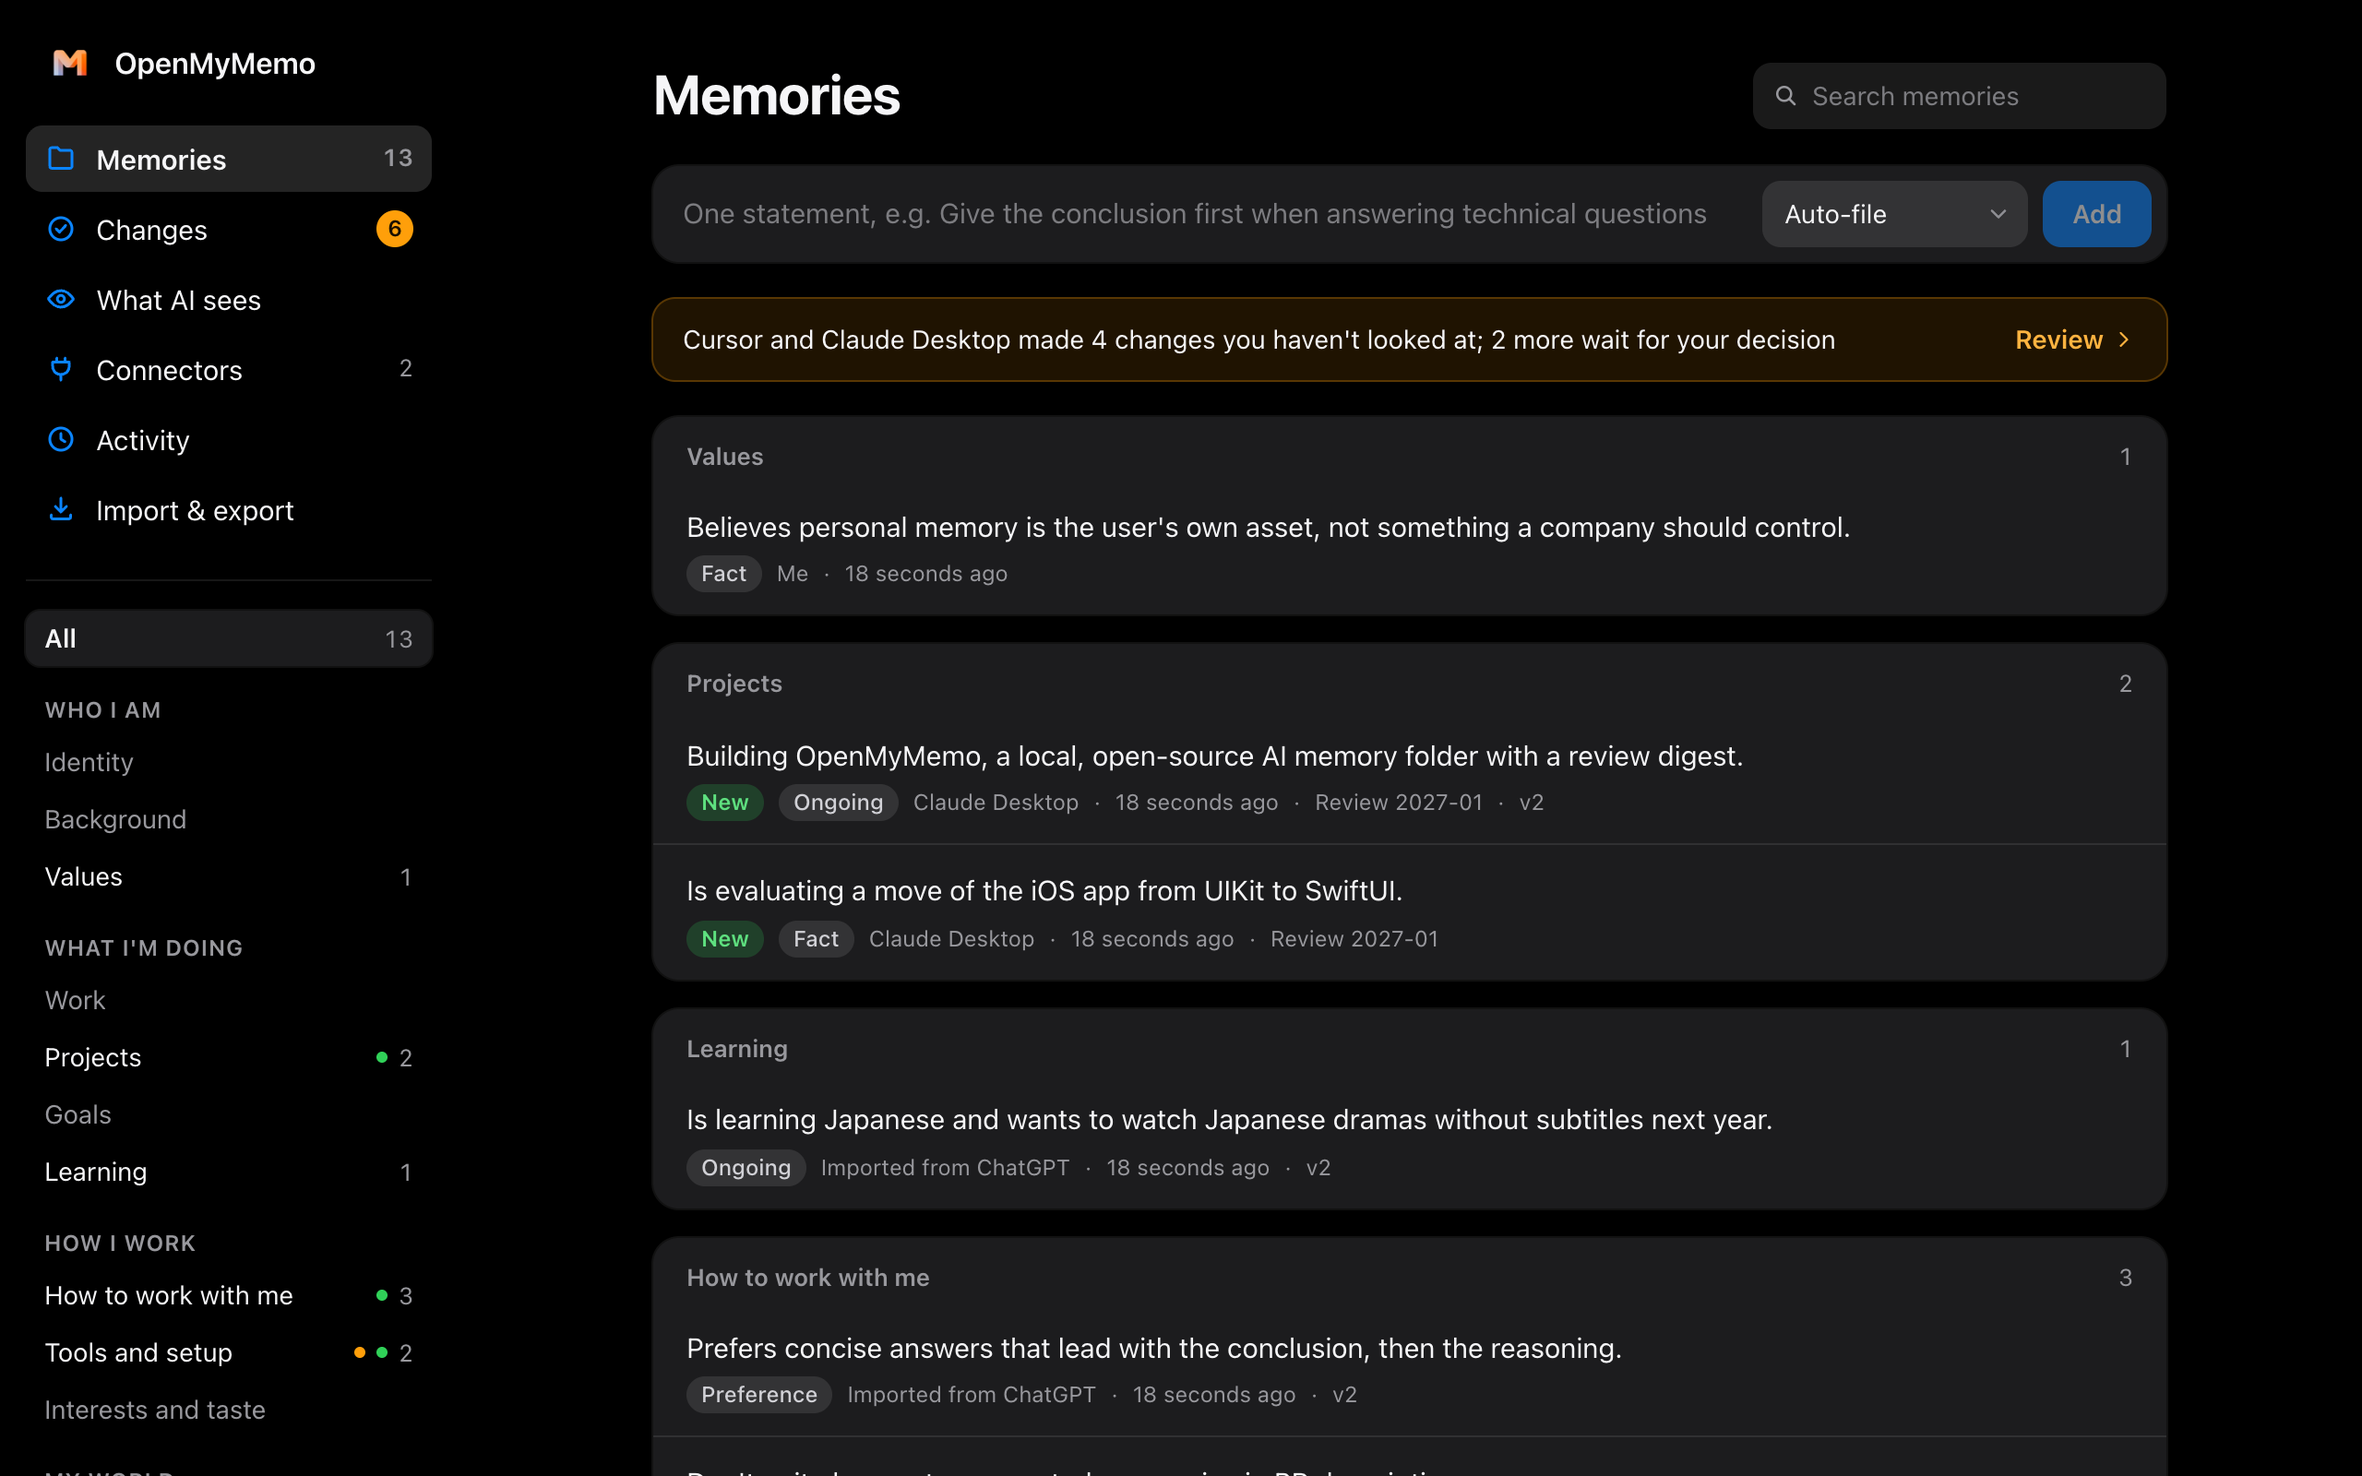
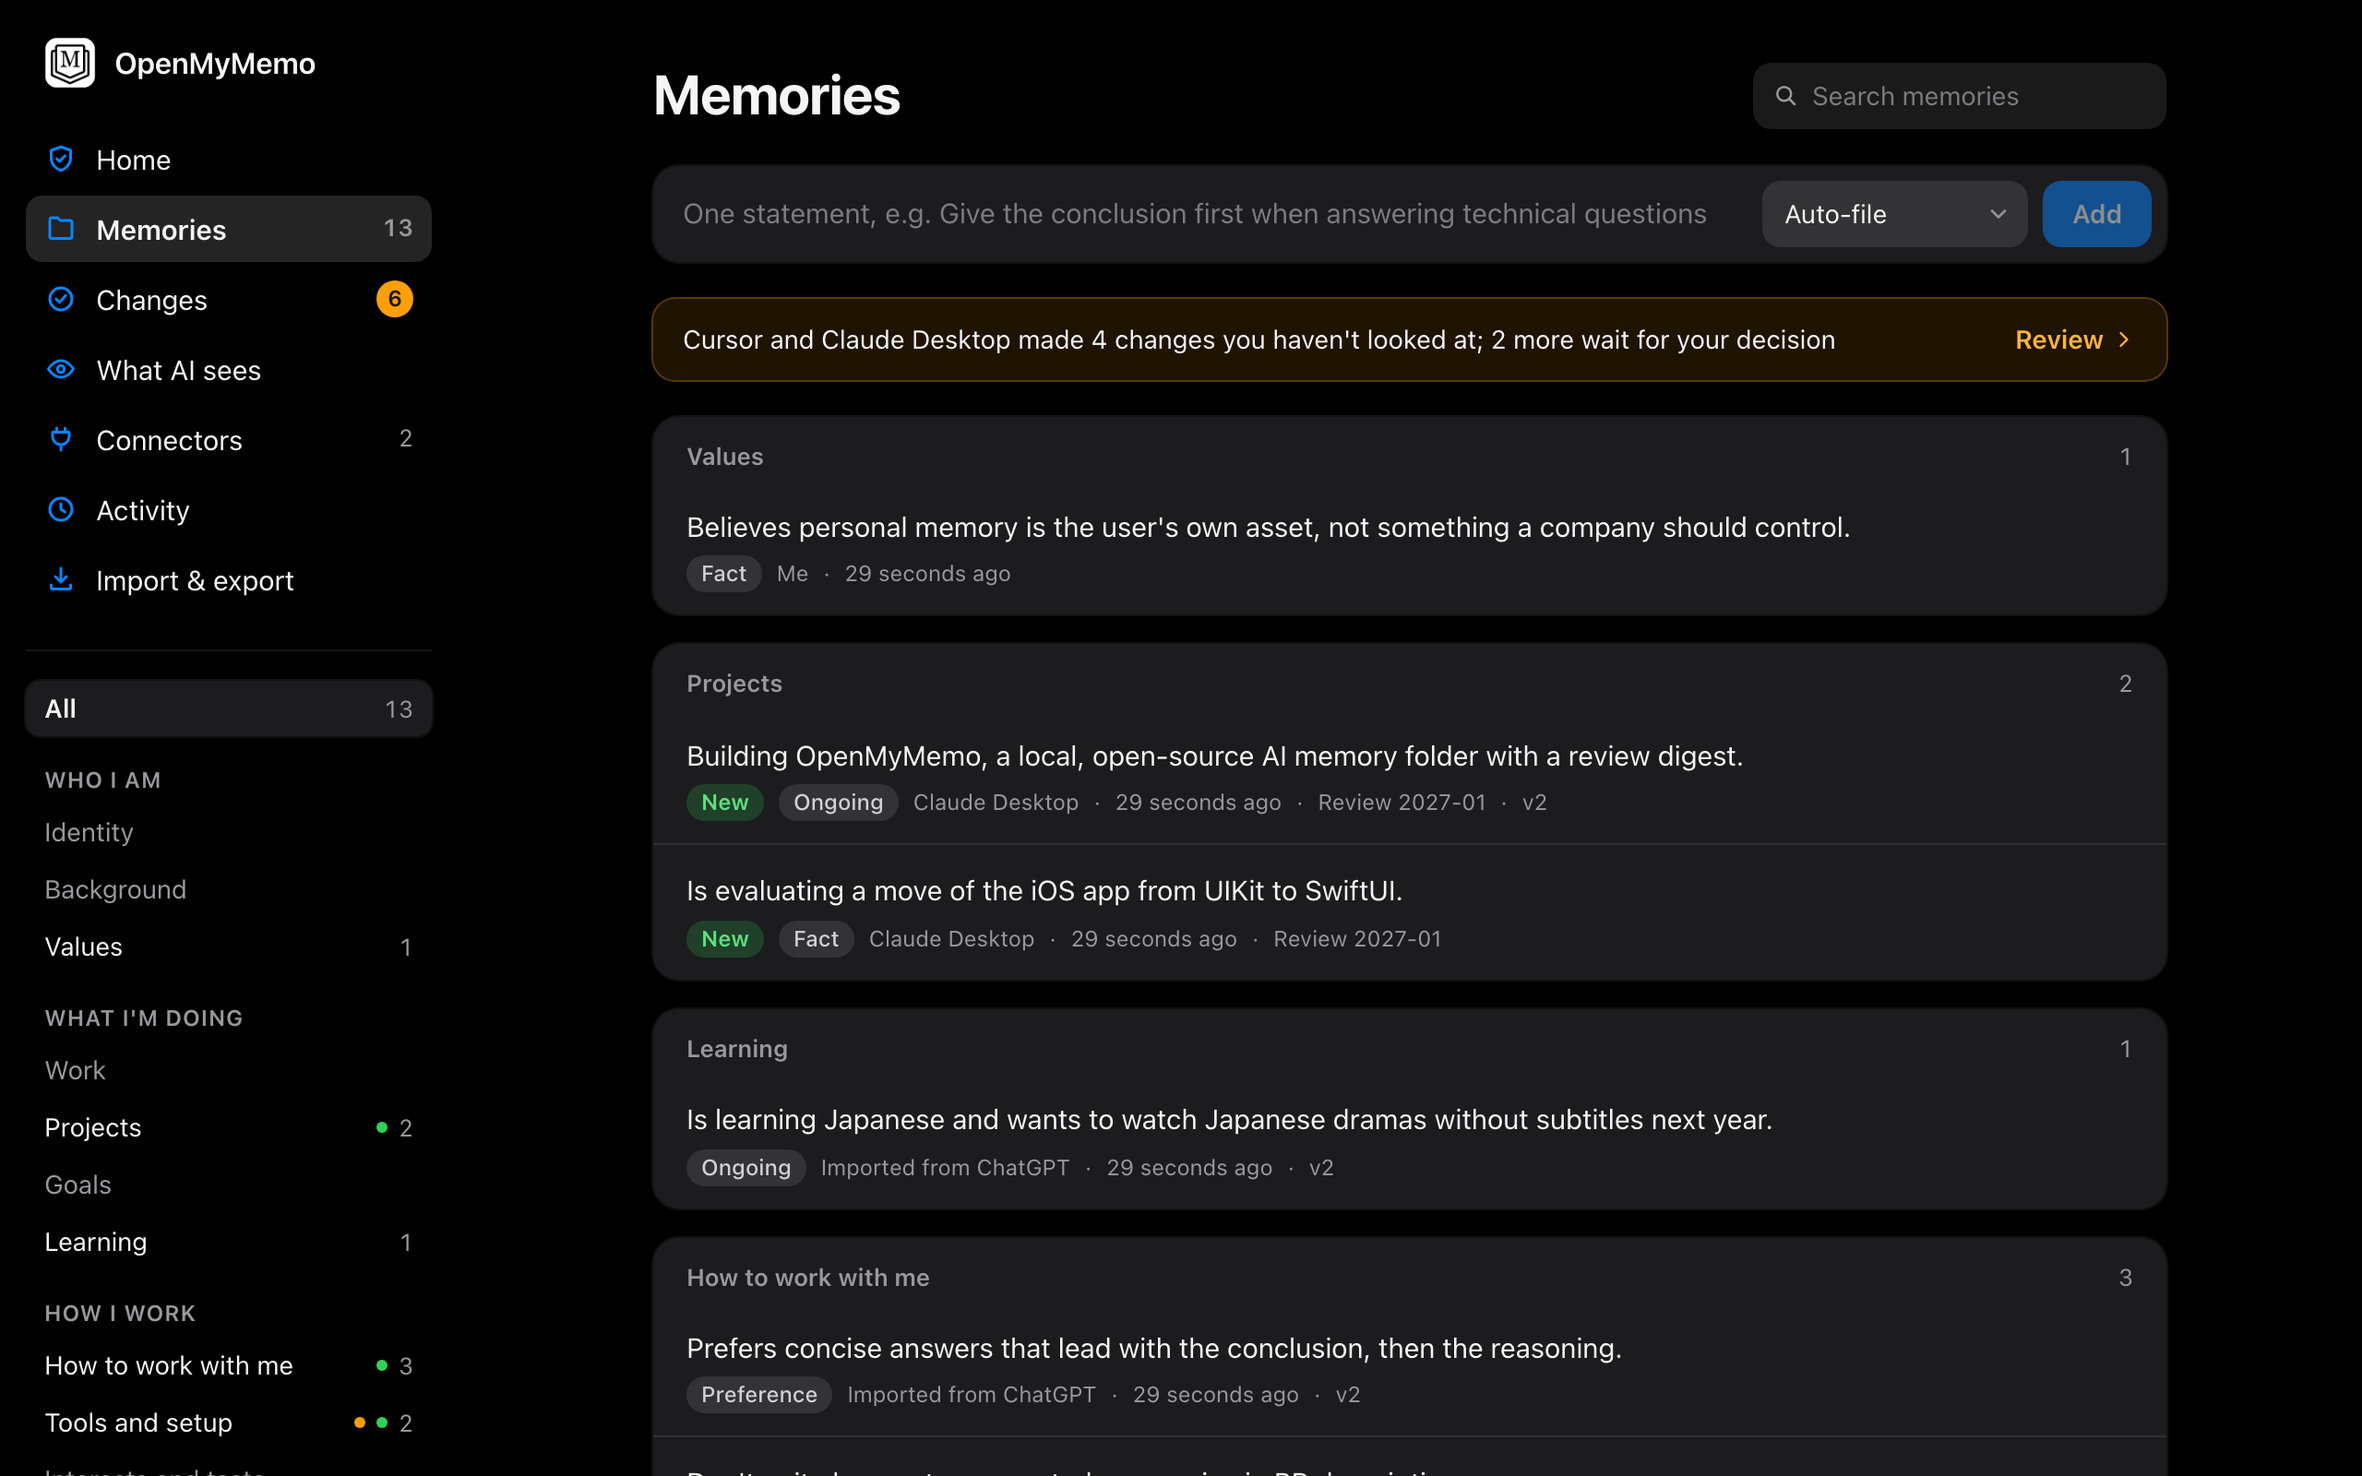
Bring the privacy policy, README and screenshots up to 0.3
PRIVACY.md still said OpenMyMemo has no update check, and that the Mac app's
notifications include the text of a change. Since 0.3.0 the Mac and Windows apps
fetch the release's latest.json once a day (with a switch to turn it off and
signed updates only), and notifications carry counts and app names only. The
policy now says so, covers the Windows app and its folders, lists the new state
files (safety score history, sent notifications), and where to delete everything
on each system.

The README's banner said v0.2 and its privacy paragraph repeated "no update
check". The screenshots are retaken from the demo folder on main, with the new
logo and Home in the sidebar.

diff --git a/PRIVACY.md b/PRIVACY.md
@@ -1,12 +1,12 @@
 # Privacy Policy
 
-Last updated: 2026-10-19
+Last updated: 2026-10-24
 
-OpenMyMemo is open-source software published by MyMemo. It keeps your AI memory in a folder on your own computer. This policy covers the OpenMyMemo command-line tool, its MCP server, its review panel, the Mac app and the plugins and extensions in this repository. OpenMyMemo Cloud, an optional MyMemo service, is covered by the section of that name below and by MyMemo's own privacy policy.
+OpenMyMemo is open-source software published by MyMemo. It keeps your AI memory in a folder on your own computer. This policy covers the OpenMyMemo command-line tool, its MCP server, its review panel, the Mac and Windows apps and the plugins and extensions in this repository. OpenMyMemo Cloud, an optional MyMemo service, is covered by the section of that name below and by MyMemo's own privacy policy.
 
 ## In short
 
-- Your memory stays on your computer. MyMemo does not receive it, and OpenMyMemo has no account, telemetry, analytics, crash reporting or update check.
+- Your memory stays on your computer. MyMemo does not receive it, and OpenMyMemo has no account, telemetry, analytics or crash reporting. The Mac and Windows apps look for a new version once a day, which sends nothing about you or your memory and which you can turn off.
 - AI apps you connect read your memory and send what they read to their own model provider, under that app's privacy policy. The `health` and `finance` topics are hidden from every app unless you allow them.
 - Nothing leaves your computer through OpenMyMemo unless you sign in to OpenMyMemo Cloud and link this computer to a MyMemo account, or turn on the OpenMyMemo Assistant with a model that isn't on your computer.
 
@@ -20,15 +20,16 @@ Everything below is stored only on your computer. OpenMyMemo never uploads it.
   - pending and decided changes proposed by AI apps, with the reason and quote the app gave;
   - the list of connected apps and their permissions. Connector tokens are stored only as a hash.
   - an activity log of what each app did: when it read your memory, which memories it read, the text of its searches, its proposals and their outcome, and imports.
+  - the Memory safety score's daily history and the checks you dismissed, and which of the apps' notifications were already shown.
 - **Backups of other apps' settings:** before it first edits an AI app's MCP configuration file to connect it, OpenMyMemo keeps a copy next to that file (`<file>.openmymemo-backup`). The copy is readable by you only, whatever the original file allows (a copy made by a version before 2026-10-15 took the original's permissions; OpenMyMemo makes it private the next time it changes that file, and you can delete it yourself), but it contains whatever that file held, which may include other secrets.
 - **Other apps' memory files, when you import them:** the Import page's Files tab lists them, for example `CLAUDE.md`, `AGENTS.md`, `GEMINI.md`, Cursor rules or `memory.md`, in the folder you choose (your home folder by default). It reads a file only when you open its preview. What you import is copied into your memory folder; the originals are left as they are. Nothing is uploaded.
-- **The Mac app** keeps these under `~/Library`:
-  - its settings: your memory folder's location, the appearance and notifications switches;
-  - the Python it runs on and a download cache;
-  - a log of its background server, which never records your memories.
+- **The Mac and Windows apps** keep these under `~/Library` on a Mac and in `%LOCALAPPDATA%\ai.mymemo.openmymemo` on Windows:
+  - their settings: your memory folder's location, the appearance, notification and update switches, and the time of the daily brief;
+  - the Python they run on and a download cache;
+  - a log of the background server, which never records your memories.
 
-  When an AI app changes something, the Mac app can show a macOS notification that includes the text of the change. You can turn notifications off in Settings.
-- **OpenMyMemo Cloud:** once you change its settings, `settings.json` in OpenMyMemo's per-user application folder holds whether it is listed and which service it uses. If you link this computer, `cloud.json` next to it holds:
+  The apps can show notifications: when an AI app changes something or a change starts waiting for you, yesterday's brief, a reminder about changes that have waited more than 3 days, and new safety issues. Notifications carry counts and app names only, never what a memory says. Each kind has its own switch in Settings.
+- **OpenMyMemo Cloud:** once you change its settings, `settings.json` in OpenMyMemo's per-user application folder (`~/Library/Application Support/OpenMyMemo` on a Mac, `%APPDATA%\OpenMyMemo` on Windows, `~/.config/openmymemo` on Linux) holds whether it is listed and which service it uses. If you link this computer, `cloud.json` next to it holds:
   - the service address, a device id and token, and the private key that opens queued changes;
   - which folder is linked;
   - your MyMemo display name, masked email and plan.
@@ -48,12 +49,13 @@ What an app reads, it sends to its own model provider as part of your conversati
 
 OpenMyMemo's server listens only on `127.0.0.1`, so other devices cannot reach it. OpenMyMemo connects to the internet only in these cases:
 
-- **Installing and first start.** `uv`, the Claude Desktop extension and the Mac app's first start download Python and OpenMyMemo's open-source libraries:
+- **Installing and first start.** `uv`, the Claude Desktop extension and the Mac and Windows apps' first start download Python and OpenMyMemo's open-source libraries:
   - Python from python-build-standalone releases on GitHub;
   - the libraries from PyPI (pypi.org and files.pythonhosted.org).
 
   These are ordinary download requests. Like any `uv` download, they carry `uv`'s usual client information, such as its version and your operating system. No memory is sent.
-- **Links you click.** The panel and the Mac app open documentation and download pages in your browser. Install links open the AI app they belong to directly (for example `cursor://` or `vscode:`), never a website, because they carry the command that starts OpenMyMemo and with it the path of your memory folder.
+- **Updates of the Mac and Windows apps.** About a minute after it starts, and then once a day, the app fetches the newest release's update manifest (`latest.json`) from GitHub (github.com and the storage it redirects to). If there is a newer version, it asks you before installing it; when you agree, it downloads the update from the same place and installs it only if it is signed with OpenMyMemo's release key. These are ordinary downloads: no memory and nothing about you is sent, beyond what any download carries (your IP address, and the client's name). Settings → General turns the daily check off, and "Check for Updates…" checks at once. The command line and the plugins don't look for updates; you update them with `uv tool upgrade openmymemo` or through the AI app.
+- **Links you click.** The panel and the apps open documentation and download pages in your browser. Install links open the AI app they belong to directly (for example `cursor://` or `vscode:`), never a website, because they carry the command that starts OpenMyMemo and with it the path of your memory folder.
 - **OpenMyMemo Cloud**, only after you sign in and link this computer (see below).
 - **The OpenMyMemo Assistant**, only after you turn it on with a model that isn't on your computer (see below). With MyMemo's hosted model, signing in and refreshing the sign-in also talk to the MyMemo service.
 - **Search by meaning on this computer**, only when you turn it on or switch models: it downloads the model you chose from Hugging Face (huggingface.co and the storage it redirects to), at a fixed address, and checks each file against a SHA-256 checksum in OpenMyMemo's code, deleting a file that doesn't match. If ONNX Runtime isn't installed, it is downloaded from PyPI the same way OpenMyMemo's other libraries are. These are ordinary downloads: no memory and nothing about you is sent, beyond what any download carries (your IP address, and the client's name). Searching with it happens entirely on your computer.
@@ -119,8 +121,8 @@ How MyMemo handles your account and its metadata is governed by [MyMemo's privac
 - Disconnect an app, which removes OpenMyMemo from its settings. Unlink OpenMyMemo Cloud, or hide it in Settings. Turn the OpenMyMemo Assistant off, or limit what it is used for.
 - To remove everything:
   1. Delete the memory folder.
-  2. Delete OpenMyMemo's application folders (`~/Library/Application Support/ai.mymemo.openmymemo`, `~/Library/Application Support/OpenMyMemo` and `~/Library/Caches/ai.mymemo.openmymemo` on a Mac).
-  3. Delete the app or run `uv tool uninstall openmymemo`.
+  2. Delete OpenMyMemo's application folders: `~/Library/Application Support/ai.mymemo.openmymemo`, `~/Library/Application Support/OpenMyMemo`, `~/Library/Caches/ai.mymemo.openmymemo` and `~/Library/Logs/ai.mymemo.openmymemo` on a Mac; `%LOCALAPPDATA%\ai.mymemo.openmymemo` and `%APPDATA%\OpenMyMemo` on Windows; `~/.config/openmymemo` on Linux.
+  3. Delete the app (on Windows, Settings → Apps) or run `uv tool uninstall openmymemo`.
 
 ## Children
 

diff --git a/README.md b/README.md
@@ -4,7 +4,7 @@ Your AI memory as a plain folder on your own computer. See exactly what models r
 
 <!-- mcp-name: io.github.MyMemoAI/openmymemo -->
 
-> v0.2. What changed in each release: [CHANGELOG.md](https://github.com/MyMemoAI/openmymemo/blob/main/CHANGELOG.md). Product design and status: [docs/product-design.md](https://github.com/MyMemoAI/openmymemo/blob/main/docs/product-design.md). The folder format, for any tool that wants to read or write it: [docs/MEMORY_FORMAT.md](https://github.com/MyMemoAI/openmymemo/blob/main/docs/MEMORY_FORMAT.md).
+> v0.3. What changed in each release: [CHANGELOG.md](https://github.com/MyMemoAI/openmymemo/blob/main/CHANGELOG.md). Product design and status: [docs/product-design.md](https://github.com/MyMemoAI/openmymemo/blob/main/docs/product-design.md). The folder format, for any tool that wants to read or write it: [docs/MEMORY_FORMAT.md](https://github.com/MyMemoAI/openmymemo/blob/main/docs/MEMORY_FORMAT.md).
 
 <picture>
   <source media="(prefers-color-scheme: dark)" srcset="https://raw.githubusercontent.com/MyMemoAI/openmymemo/main/docs/images/panel-memories-dark.png">
@@ -222,7 +222,7 @@ Found a vulnerability? Please report it privately as described in [SECURITY.md](
 
 ## Privacy Policy
 
-Your memory stays on your computer: MyMemo doesn't receive it, and OpenMyMemo has no account, telemetry, analytics or update check. AI apps you connect read the topics you allow (never `health` or `finance` unless you say so) and send what they read to their own model provider under their own policies. OpenMyMemo goes online only to download Python and its libraries when it is installed or first started, and for OpenMyMemo Cloud, which does nothing until you sign in and link this computer; then the memories web apps read pass through the MyMemo service in transit. The optional OpenMyMemo Assistant sends memory text to the model you choose, and only when you turn it on: a model on your own computer keeps it there. Search by meaning on this computer downloads its model from Hugging Face when you turn it on, and sends nothing. The full policy, including what is stored where: [PRIVACY.md](https://github.com/MyMemoAI/openmymemo/blob/main/PRIVACY.md).
+Your memory stays on your computer: MyMemo doesn't receive it, and OpenMyMemo has no account, telemetry or analytics. AI apps you connect read the topics you allow (never `health` or `finance` unless you say so) and send what they read to their own model provider under their own policies. OpenMyMemo goes online only to download Python and its libraries when it is installed or first started, for the Mac and Windows apps' daily look for a new version (which sends nothing about you and can be turned off), and for OpenMyMemo Cloud, which does nothing until you sign in and link this computer; then the memories web apps read pass through the MyMemo service in transit. The optional OpenMyMemo Assistant sends memory text to the model you choose, and only when you turn it on: a model on your own computer keeps it there. Search by meaning on this computer downloads its model from Hugging Face when you turn it on, and sends nothing. The full policy, including what is stored where: [PRIVACY.md](https://github.com/MyMemoAI/openmymemo/blob/main/PRIVACY.md).
 
 ## Development
 
